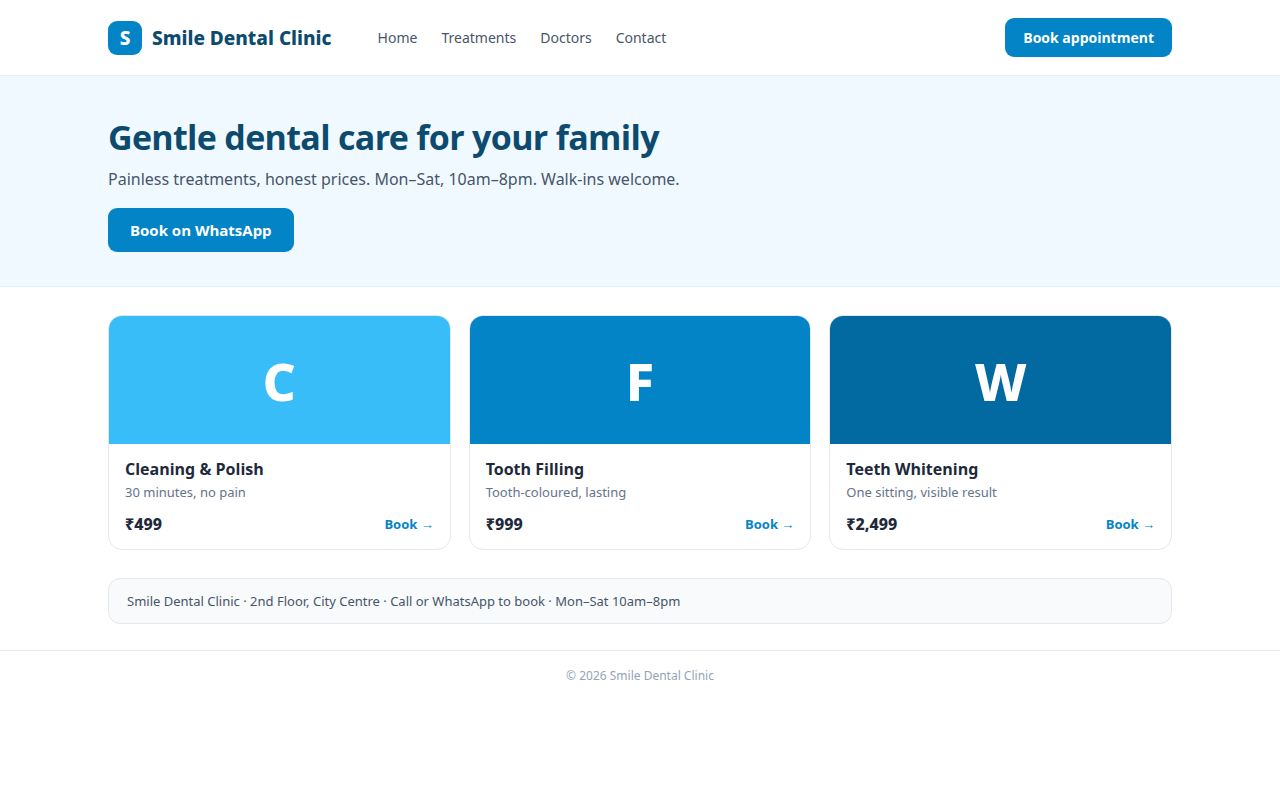
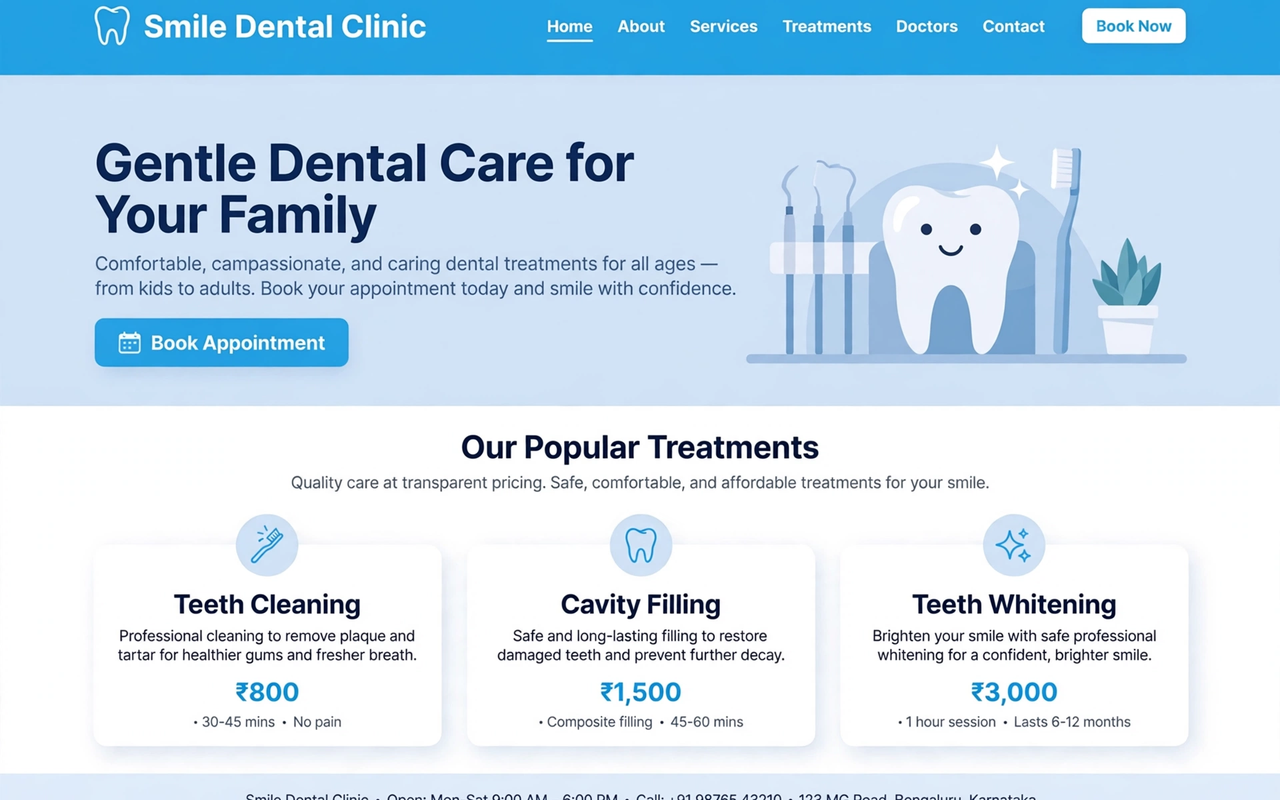
feat(web): dusrel-image docs-site typography same-to-same — load Inter+Sora, Sora headings, VitePress sizes; generated demo images; fix CTA-band heading color

diff --git a/frontend/apps/web/src/components/react/OrderForm.tsx b/frontend/apps/web/src/components/react/OrderForm.tsx
@@ -8,7 +8,7 @@ interface Props {
 
 const inputCls =
   "w-full rounded-lg border border-line bg-white px-3 py-2.5 text-sm text-ink outline-none focus:border-primary-600 focus:ring-2 focus:ring-primary-100";
-const labelCls = "mb-1 block text-sm font-bold text-ink";
+const labelCls = "mb-1 block text-sm font-semibold text-ink";
 
 /**
  * Order form — React island (client:load).
@@ -49,11 +49,11 @@ export default function OrderForm({ dict, locale }: Props) {
       <div className="rounded-xl border border-green-200 bg-green-50 p-6">
         <div className="flex items-center gap-2">
           <svg className="h-6 w-6 shrink-0 text-green-600" viewBox="0 0 24 24" fill="none" stroke="currentColor" strokeWidth="1.5" strokeLinecap="round" strokeLinejoin="round" aria-hidden="true"><circle cx="12" cy="12" r="10" /><path d="m9 12 2 2 4-4" /></svg>
-          <h2 className="text-xl font-bold text-ink">{o.successTitle}</h2>
+          <h2 className="text-xl font-semibold text-ink">{o.successTitle}</h2>
         </div>
-        <p className="mt-2 text-sm leading-relaxed text-body">{o.successText}</p>
+        <p className="mt-2 text-[14.5px] leading-relaxed text-body">{o.successText}</p>
         <p className="mt-4 text-sm">
-          <span className="font-bold text-ink">{o.reference}: </span>
+          <span className="font-semibold text-ink">{o.reference}: </span>
           <code className="rounded bg-white px-2 py-1 font-mono font-bold text-primary-700">{referenceFor}</code>
         </p>
       </div>
@@ -113,7 +113,7 @@ export default function OrderForm({ dict, locale }: Props) {
           </select>
         </div>
       </div>
-      <button type="submit" className="mt-6 w-full rounded-lg bg-primary-500 px-6 py-3 font-bold text-white hover:bg-primary-600 sm:w-auto">
+      <button type="submit" className="mt-6 w-full rounded-lg bg-primary-500 px-6 py-3 text-[15px] font-semibold text-white hover:bg-primary-600 sm:w-auto">
         {o.submit}
       </button>
       <p className="mt-3 text-xs text-muted">{o.note}</p>

diff --git a/frontend/apps/web/src/components/react/FaqAccordion.tsx b/frontend/apps/web/src/components/react/FaqAccordion.tsx
@@ -15,14 +15,14 @@ export default function FaqAccordion({ items }: { items: Item[] }) {
           <button
             type="button"
             onClick={() => setOpen(open === i ? null : i)}
-            className="flex w-full items-center justify-between gap-4 px-5 py-4 text-left font-bold text-ink"
+            className="flex w-full items-center justify-between gap-4 px-5 py-4 text-left font-semibold text-ink"
             aria-expanded={open === i}
           >
             <span>{item.q}</span>
             <svg className={`h-5 w-5 shrink-0 text-muted transition-transform ${open === i ? "rotate-180" : ""}`} viewBox="0 0 24 24" fill="none" stroke="currentColor" strokeWidth="1.5" strokeLinecap="round" strokeLinejoin="round" aria-hidden="true"><path d="m6 9 6 6 6-6" /></svg>
           </button>
           {open === i && (
-            <p className="px-5 pb-4 text-sm leading-relaxed text-body">{item.a}</p>
+            <p className="px-5 pb-4 text-[14.5px] leading-relaxed text-body">{item.a}</p>
           )}
         </div>
       ))}

diff --git a/frontend/apps/web/src/styles/theme.css b/frontend/apps/web/src/styles/theme.css
@@ -22,6 +22,10 @@
 
   --font-sans: "Inter", ui-sans-serif, system-ui, -apple-system, "Segoe UI",
     "Noto Sans Devanagari", "Noto Sans Bengali", sans-serif;
+  /* Display face — Sora, same as dusrel-image docs-site (Sora for
+     display, Inter for text; Noto fallbacks cover hi/bn scripts). */
+  --font-display: "Sora", "Inter", "Noto Sans Devanagari",
+    "Noto Sans Bengali", ui-sans-serif, system-ui, sans-serif;
 }
 
 :root {
@@ -44,9 +48,15 @@ body {
   -webkit-font-smoothing: antialiased;
 }
 
-h1,
-h2,
-h3 {
-  color: var(--text-heading);
-  letter-spacing: -0.02em;
+/* In @layer base so an explicit text-* utility still wins over this
+   default (unlayered author CSS would beat utilities regardless of
+   specificity — that made the white CTA-band heading render dark). */
+@layer base {
+  h1,
+  h2,
+  h3 {
+    color: var(--text-heading);
+    font-family: var(--font-display);
+    letter-spacing: -0.02em;
+  }
 }
